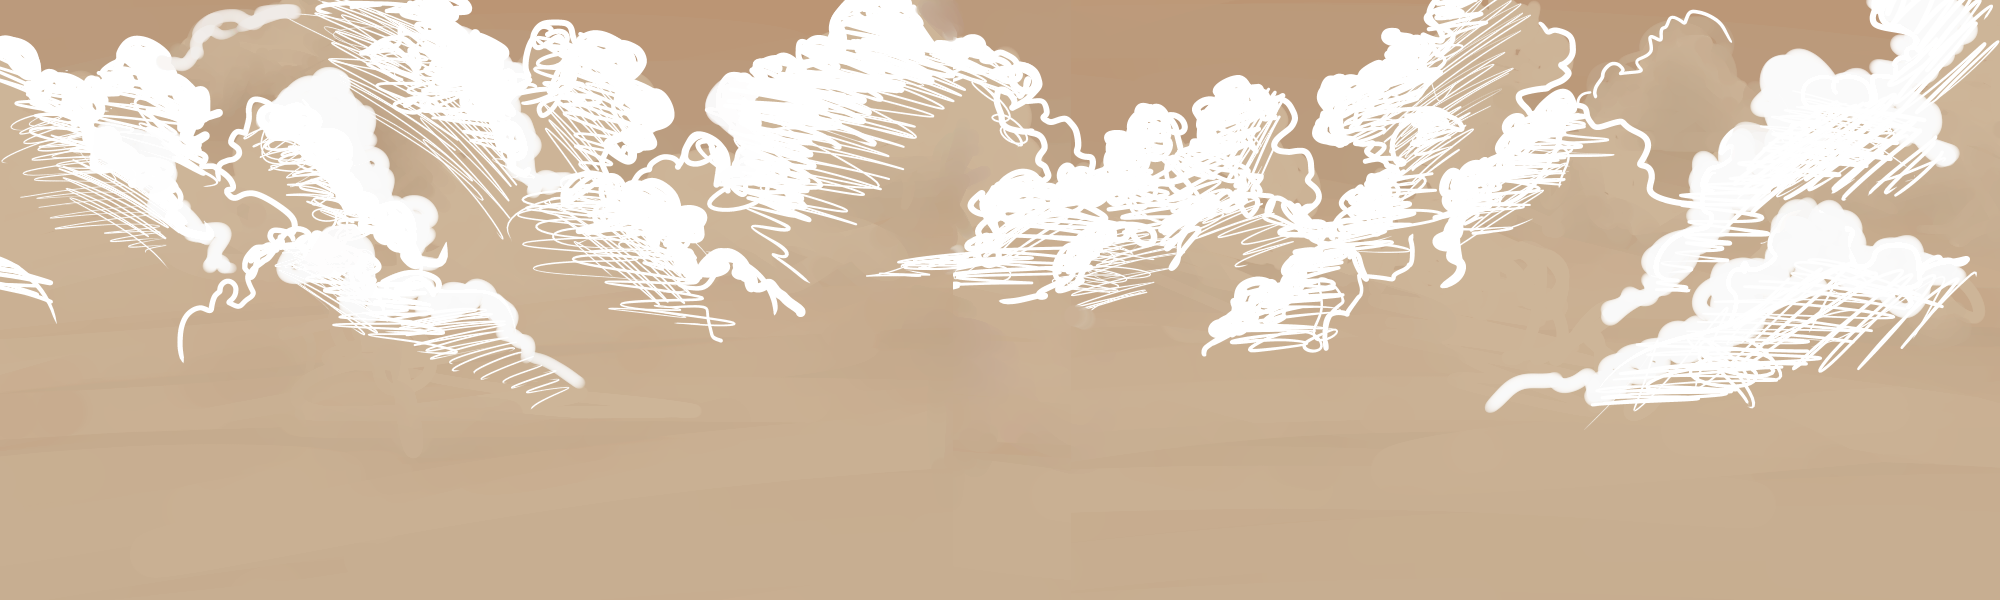
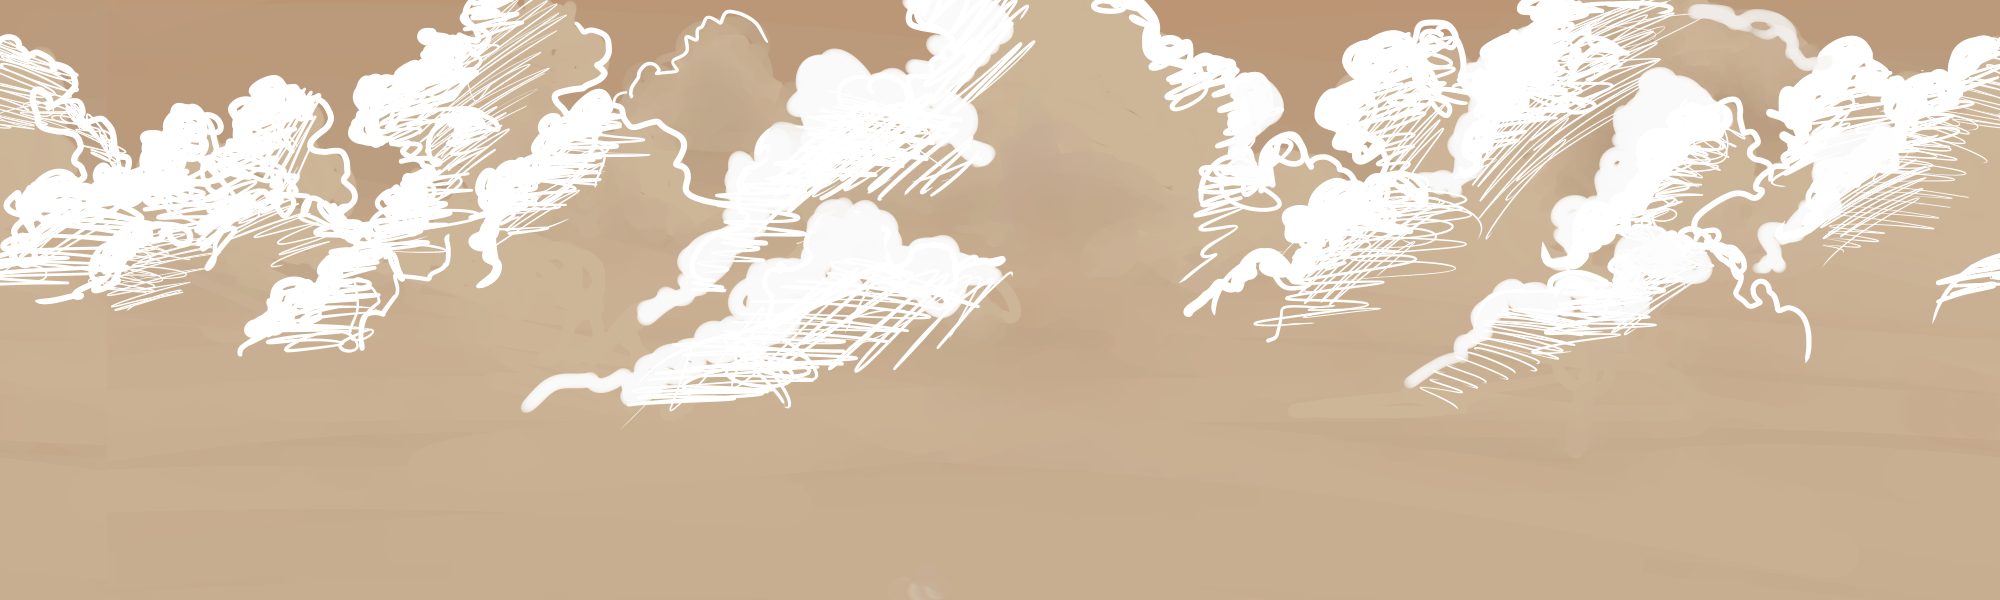
parallax scrolling x4

diff --git a/src/game.js b/src/game.js
@@ -32,7 +32,8 @@ Game = {
 					'assets/step01_balloon.png',
 					'assets/parallax00.png',
 					'assets/parallax01.png',
-					'assets/parallax02.png'
+					'assets/parallax02.png',
+					'assets/parallax03.png'
 				], function() {
 				Crafty.sprite(50, 84, 'assets/step01_basket.png', {
 					blimp_base_01: [0, 0]
@@ -49,6 +50,9 @@ Game = {
 				Crafty.sprite(2000, 600, "assets/parallax02.png", {
 					background_layer_02: [0,0]
 				});
+				Crafty.sprite(2000, 600, "assets/parallax03.png", {
+					background_layer_03: [0,0]
+				});
 
 				Crafty.scene('Main');
 			})
@@ -58,6 +62,7 @@ Game = {
 			Crafty.e('Parallax').background('assets/parallax00.png').parallax(0);
 			Crafty.e('Parallax').background('assets/parallax01.png').parallax(1);
 			Crafty.e('Parallax').background('assets/parallax02.png').parallax(1.5);
+			Crafty.e('Parallax').background('assets/parallax03.png').parallax(2);
 
 			Crafty.e('Player').attr({ x: 50, y: 50 });
 
